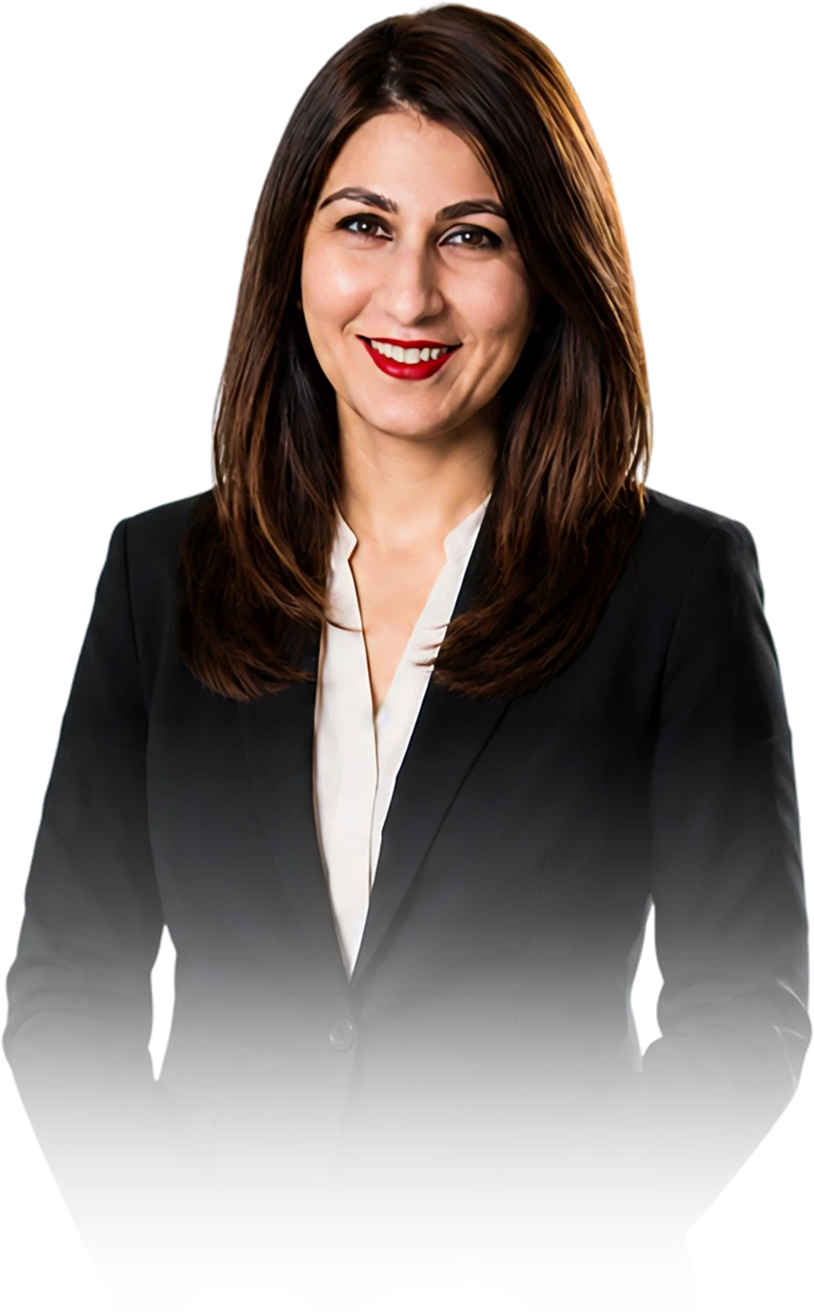
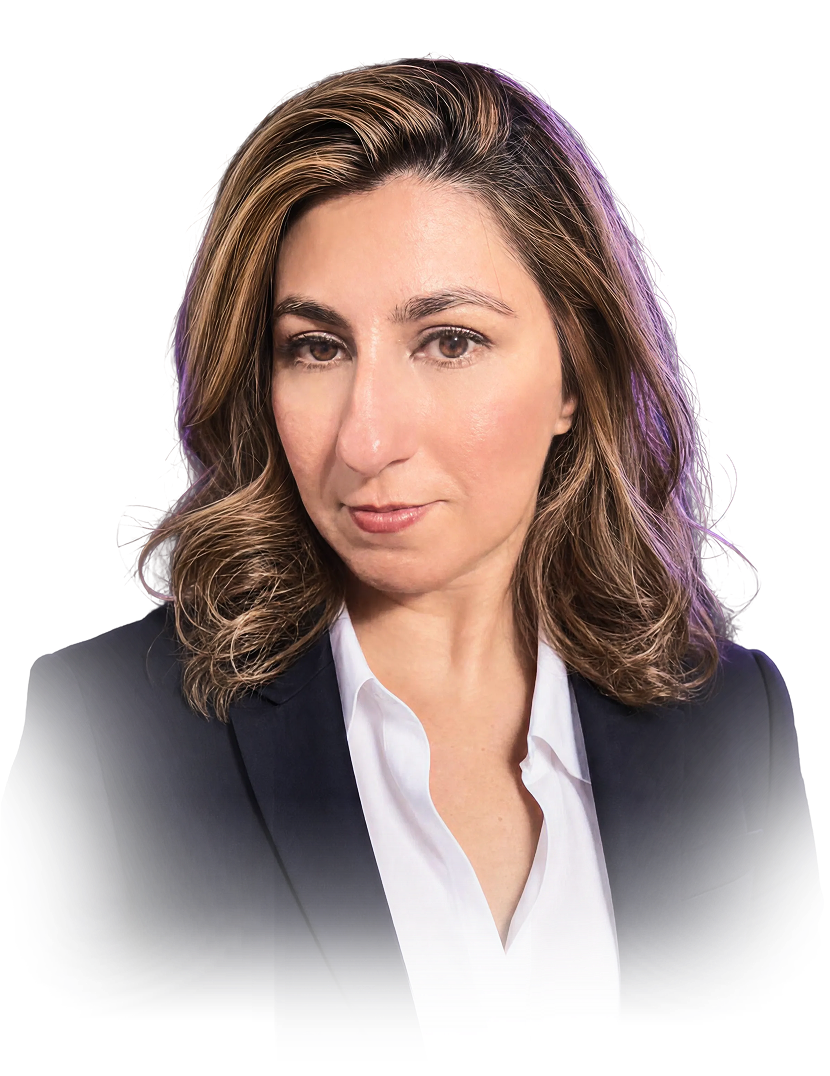
picture updated

diff --git a/src/responsive.css b/src/responsive.css
@@ -164,7 +164,7 @@
   .founder__inner             { gap: 1.04vw; }
   .founder__title             { font-size: 6.30vw; margin: 0 0 3.65vw 0; }
   .founder__image-wrap        { width: 41.67vw; height: 31.25vw; top: -5.73vw; }
-  .founder__card              { top: 15.10vw; left: 1.98vw; backdrop-filter: blur(1.17vw); border-radius: 1.04vw; padding: 1.20vw 1.82vw 2.08vw; }
+  .founder__card              { top: 18.75vw; left: 0vw; backdrop-filter: blur(1.17vw); border-radius: 1.04vw; padding: 1.20vw 1.82vw 2.08vw; }
   .founder__card::before      { border-radius: 1.04vw; padding: 0.05vw; }
   .founder__card-role         { font-size: 0.83vw; }
   .founder__card-name         { font-size: 3.17vw; margin: 0.52vw 0 1.15vw; }
@@ -405,7 +405,7 @@
   .founder__left            { order: 1; width: 100%; }
   .founder__image-wrap      { width: 400px; height: auto; position: relative; top: 0; margin: 0 auto; }
   .founder__img             { width: 100%; height: auto; object-fit: cover; display: block; }
-  .founder__card            { position: absolute; top: auto; bottom: 30px; left: 50%; right: auto; transform: translateX(-50%); width: 80%; padding: 20px 24px 40px; text-align: center; }
+  .founder__card            { position: absolute; top: auto; bottom: -50px; left: 50%; right: auto; transform: translateX(-50%); width: 80%; padding: 20px 24px 40px; text-align: center; }
   .founder__card-name       { font-size: 36px; }
   .founder__right           { order: -1; position: relative; right: auto; width: 100%; display: flex; flex-direction: column; align-items: center; text-align: center; }
   .founder__desc            { width: 100%; font-size: 14px; line-height: 160%; }
@@ -723,6 +723,7 @@
   .founder__card-name { font-size: 28px; }
   .founder__desc      { font-size: 14px; }
   .our-model          { padding: 40px 0; }
+  .our-model__content { padding-top: 50px; }
   .our-model__card    { flex: none; width: 100%; max-width: calc(100% - 15px); padding: 30px 15px; }
   .our-model__title   { font-size: 24px; }
   .our-model__desc    { font-size: 14px; }
@@ -847,6 +848,7 @@
   .founder__title         { font-size: 36px; }
   .founder__card-name     { font-size: 28px; }
   .founder__image-wrap    { width: 100%; height: auto; position: relative; top: 0; margin: 0 auto; }
+  .our-model__content     { padding-top: 50px; }
   .our-model__card        { flex: none; width: 100%; max-width: calc(100% - 15px); padding: 30px 15px; }
   .our-model__title       { font-size: 22px; }
   .our-philosophy__title  { font-size: 22px; }

diff --git a/src/components/Founder/Founder.css b/src/components/Founder/Founder.css
@@ -54,8 +54,8 @@
 .founder__card {
   position: absolute;
   bottom: auto;
-  top: 290px;
-  left: 38px;
+  top: 360px;
+  left: 0px;
   background: linear-gradient(168.65deg, rgba(0, 0, 0, 0.5) -2.45%, rgba(22, 22, 22, 0.5) 102.09%);
   backdrop-filter: blur(22.5px);
   border-radius: 20px;